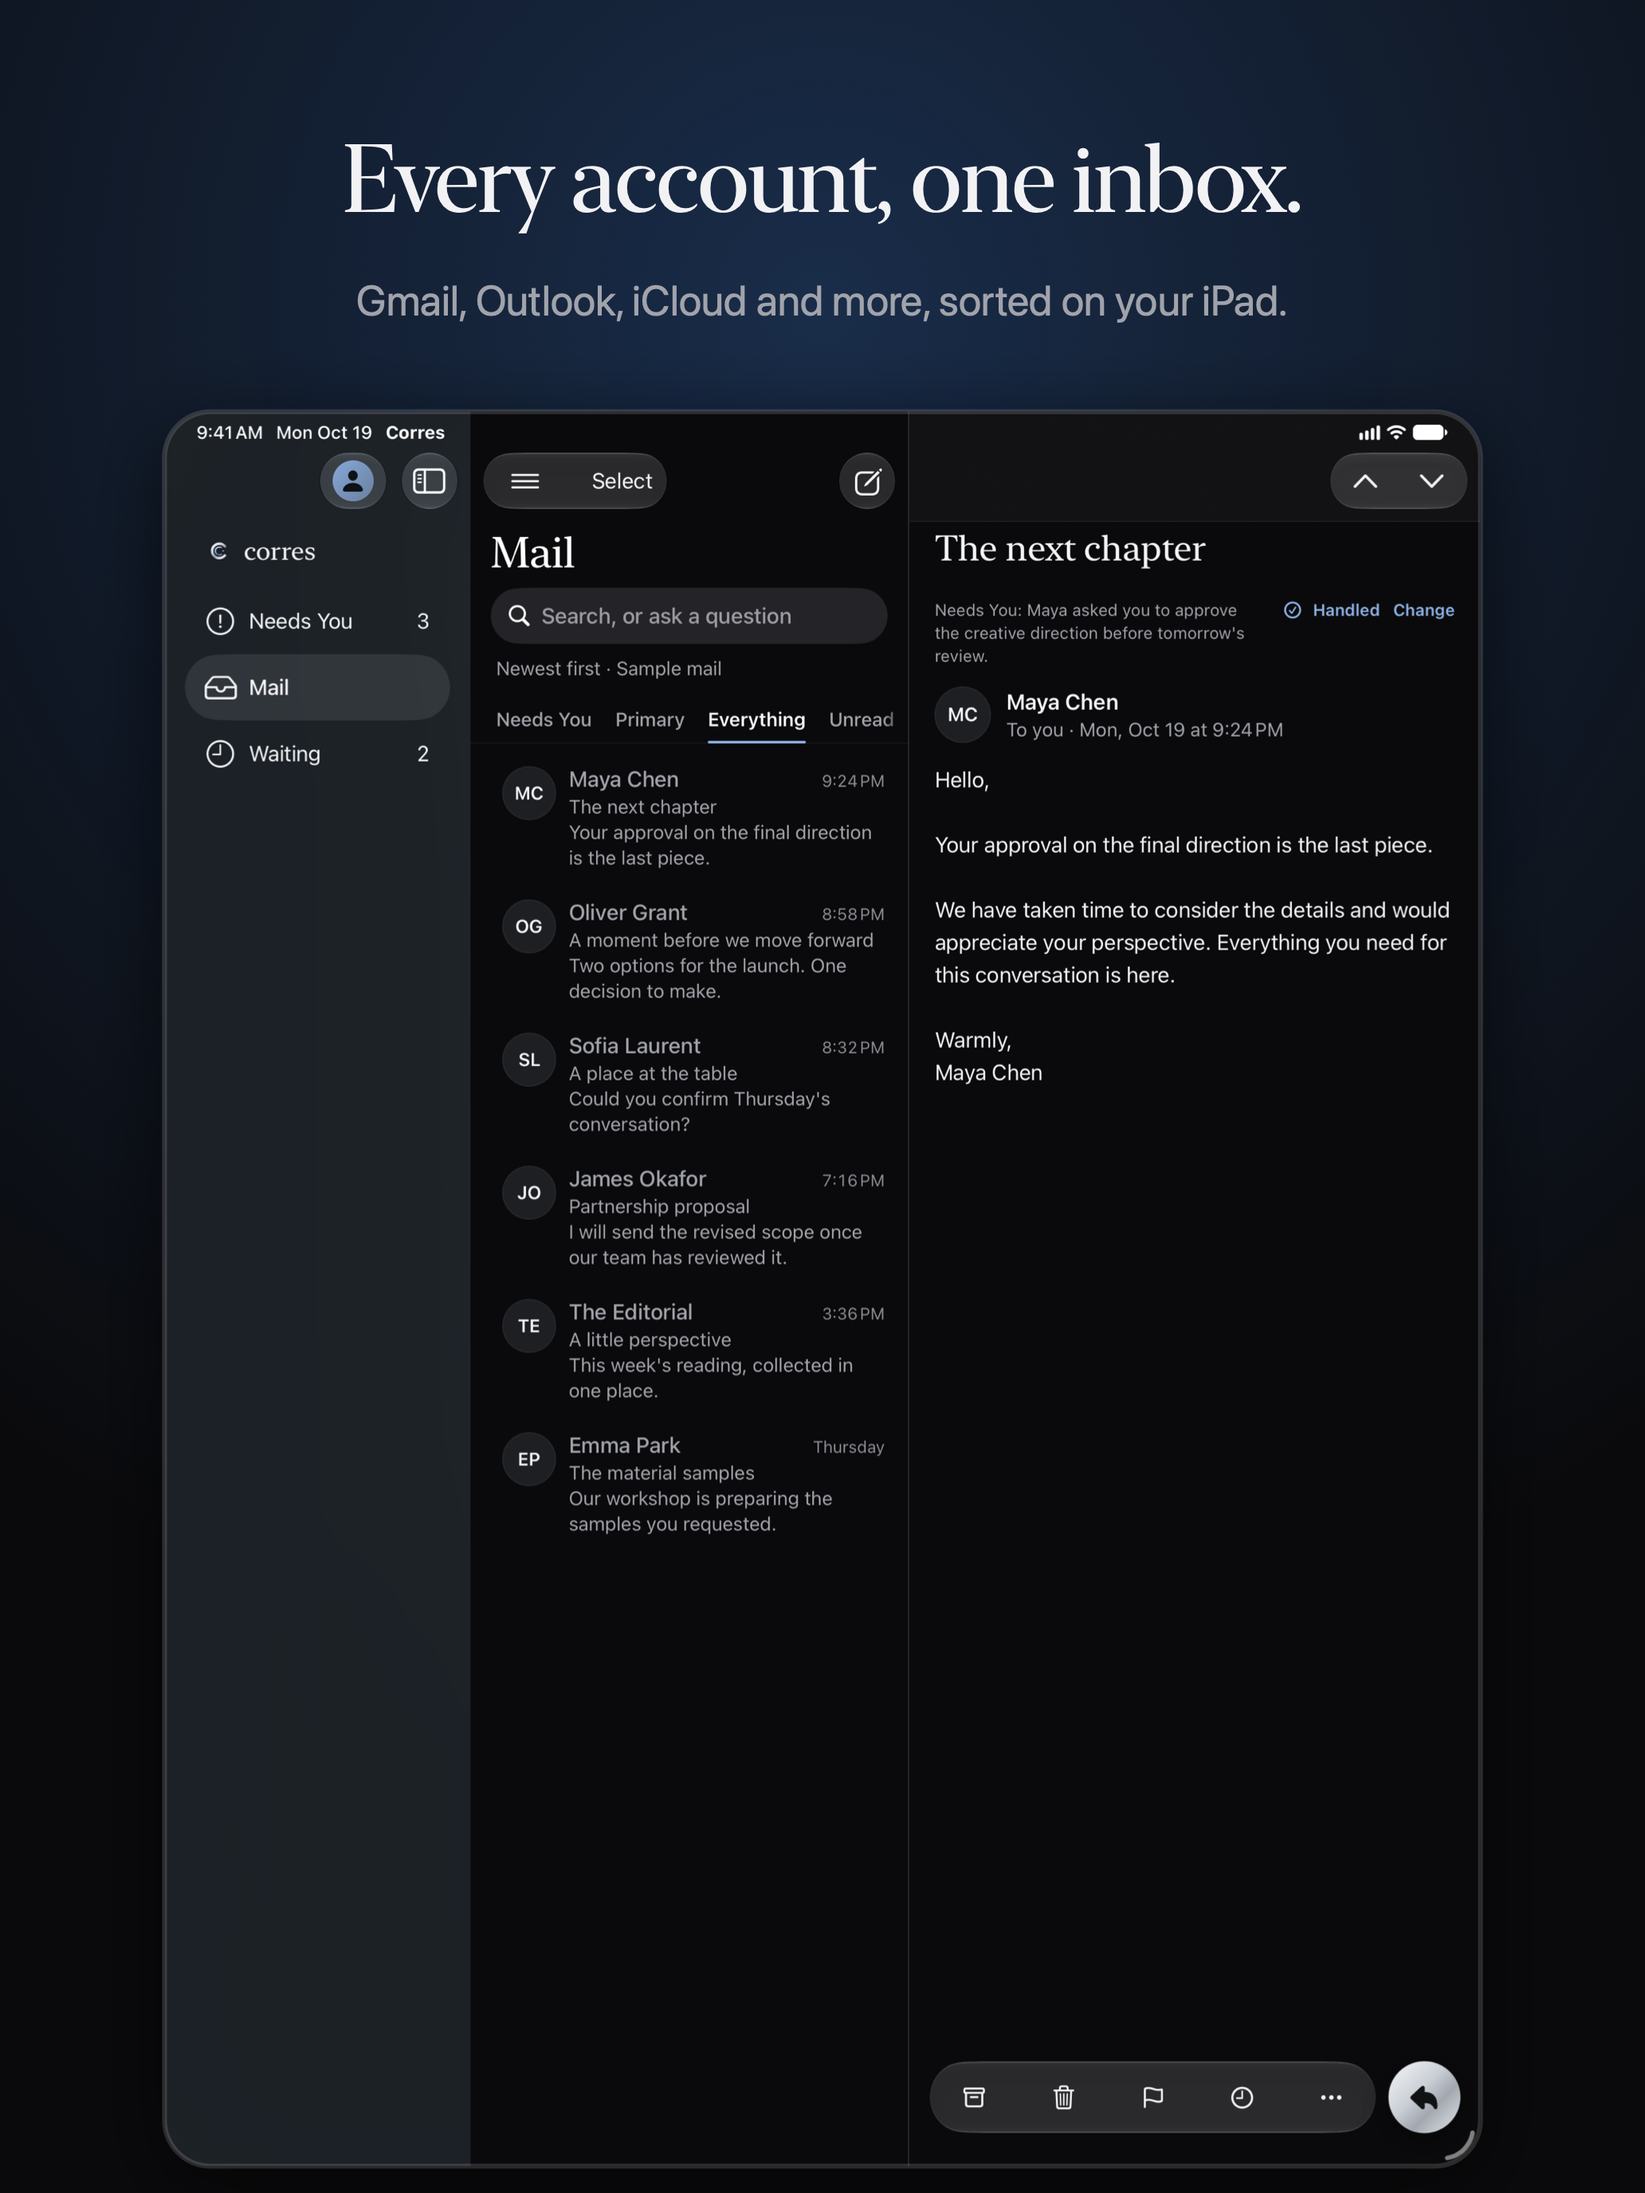
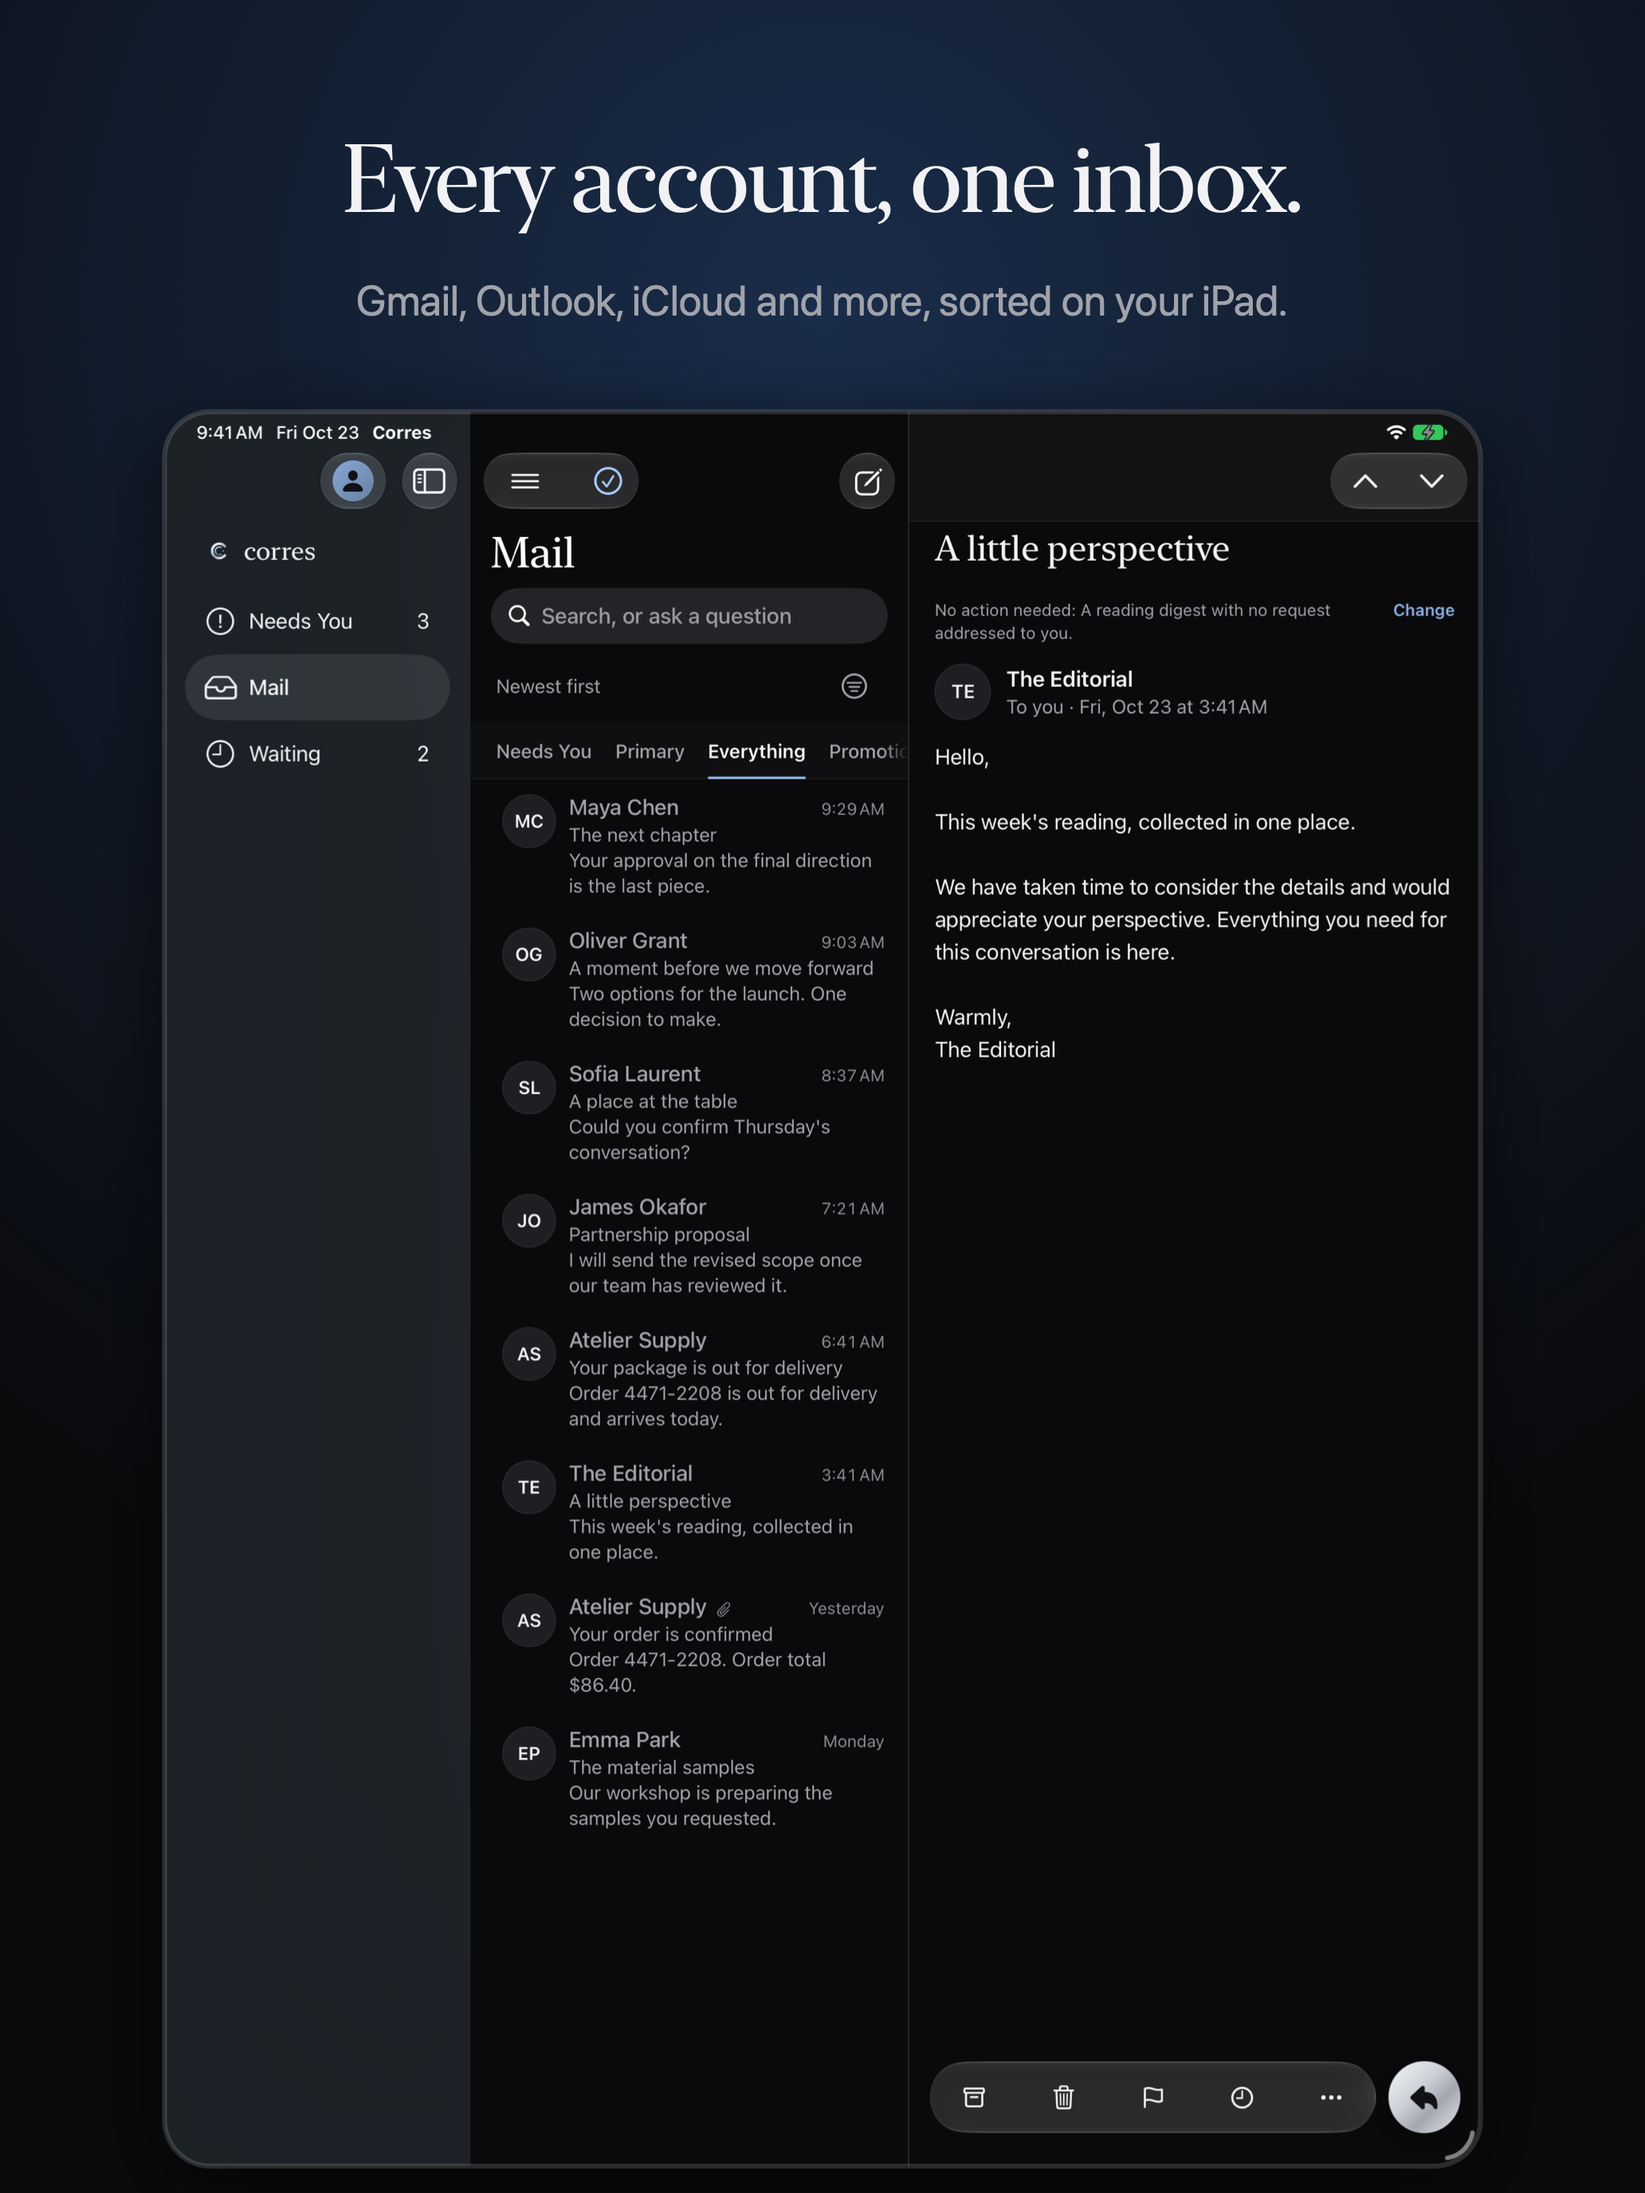
New English iPhone and iPad screenshots, and iPad links that open the email
- iPad: opening a conversation from a notification, Spotlight or a link
  switched to its list but cleared it again ("No conversation
  selected"); it's set after the list change now
- English App Store screenshots retaken on the current app (no Unread
  tab, icon buttons, glass) and uploaded: six iPhone, three iPad
- Screenshot mode dates sample mail from 9:41 that morning, so times
  match the status bar; -Search "question?" asks it

diff --git a/Features/CorresShell.swift b/Features/CorresShell.swift
@@ -141,10 +141,18 @@ struct CorresShell: View {
             }
             let preferred: Destination = thread.attention == .waiting ? .waiting : (thread.attention == .needsYou ? .needsYou : .mail)
             let destination = tabs.contains(preferred) || sizeClass == .regular ? preferred : .mail
+            let switching = selection != destination
             selection = destination
             let route = ConversationRoute(id: id, orderedIDs: [id])
             if sizeClass == .regular {
-                splitRoute = route
+                // Changing list clears the open conversation, once this
+                // update is applied: set after that, or it's cleared too and
+                // a notification on iPad opened to "No conversation selected".
+                if switching {
+                    Task { @MainActor in splitRoute = route }
+                } else {
+                    splitRoute = route
+                }
             } else {
                 var fresh = NavigationPath()
                 fresh.append(route)
@@ -267,6 +275,11 @@ struct CorresShell: View {
             #if DEBUG
             // Screenshots: -OpenThread sample-N opens that sample email.
             let args = ProcessInfo.processInfo.arguments
+            // Screenshots: -Search "question" opens Search with it typed.
+            if let flag = args.firstIndex(of: "-Search"), flag + 1 < args.count {
+                try? await Task.sleep(for: .seconds(1.5))
+                router.pending = .search(args[flag + 1])
+            }
             if let flag = args.firstIndex(of: "-OpenThread"), flag + 1 < args.count {
                 try? await Task.sleep(for: .seconds(1.5))
                 router.pending = .thread(ThreadID(account: "sample", providerID: args[flag + 1]))

diff --git a/App/MailStore.swift b/App/MailStore.swift
@@ -247,7 +247,7 @@ final class MailStore {
     /// away its scroll position and dropped you back at the top mid-task.
     func load() async {
         if state == .loaded {
-            if seedsSampleMail() { try? await repository.seedIfNeeded(now: .now) }
+            if seedsSampleMail() { try? await repository.seedIfNeeded(now: Self.sampleNow) }
             await refresh()
             return
         }
@@ -285,6 +285,14 @@ final class MailStore {
     }
     private static let firstScreen = 300
 
+    /// When sample mail is dated from. App Store screenshots show 9:41, so
+    /// there the mail arrives that morning, whatever time they're taken.
+    static var sampleNow: Date {
+        guard EntitlementStore.isScreenshotMode,
+              let morning = Calendar.current.date(bySettingHour: 9, minute: 41, second: 0, of: .now) else { return .now }
+        return morning
+    }
+
     /// The mailbox, read in the background while the window is still being
     /// built (which keeps the main thread busy for a second or more on a
     /// Mac): by the time the lists can show, the mail is already here.
@@ -313,7 +321,7 @@ final class MailStore {
     private func loadFirst() async {
         state = .loading
         do {
-            if seedsSampleMail() { try await repository.seedIfNeeded(now: .now) }
+            if seedsSampleMail() { try await repository.seedIfNeeded(now: Self.sampleNow) }
             // The newest first, so the first screen is up in a moment, then
             // everything (thousands of conversations take a few seconds on
             // a phone). Lists show as soon as the first part is here.

diff --git a/Features/CorrespondenceList.swift b/Features/CorrespondenceList.swift
@@ -617,6 +617,10 @@ struct CorrespondenceList: View {
                 router.pendingSearch = nil
                 searchPresented = true
                 search = words
+                #if DEBUG
+                // Screenshots: a question is asked, not just typed.
+                if ProcessInfo.processInfo.arguments.contains("-Search"), words.hasSuffix("?") { askQuestion(words) }
+                #endif
             }
             .searchSuggestions {
                 if search.isEmpty {
